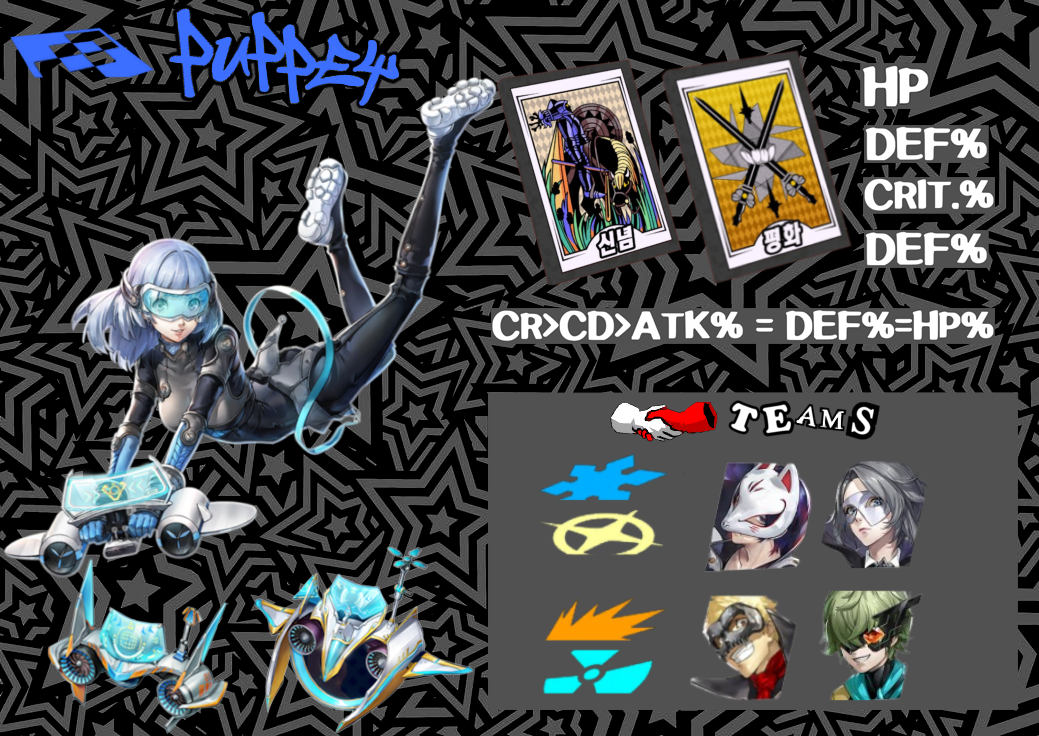
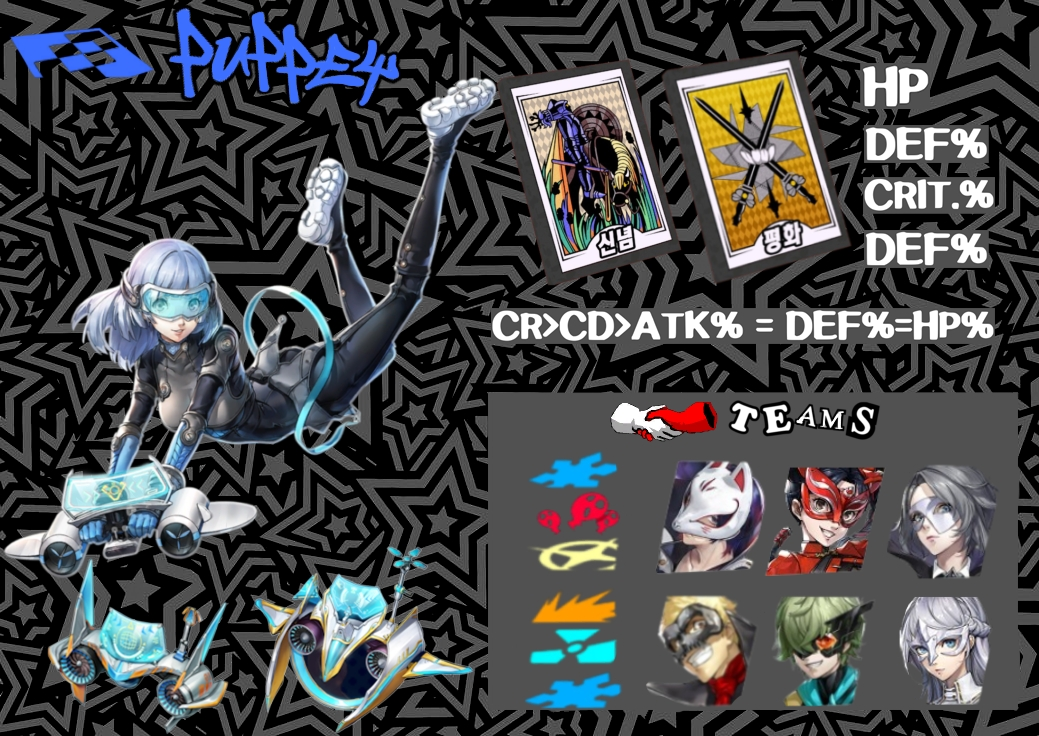
Add files via upload

diff --git a/characters/okyann.html b/characters/okyann.html
@@ -34,33 +34,43 @@
         width: 10%;
         height: 15%;
 
-        background-color: rgba(63, 17, 247,0); /* Semi-transparent for visibility */
+        background-color: rgba(63, 17, 247, 0); /* Semi-transparent for visibility */
         cursor: pointer;
     }
 
     #team1Perso1 {
     top: 62.22%;
-    left: 64.63%;
+    left: 60.63%;
     }   
 
     #team1Perso2 {
         top: 62.22%;
-        left: 78.07%;
+        left: 75.07%;
+    }
+
+    #team1Perso3 {
+        top: 62.22%;
+        left: 86.62%;
     }
 
     #team2Perso1 {
-        top: 79.88%;
-        left: 65.63%;
+        top: 78.88%;
+        left: 60.63%;
 }
 
     #team2Perso2 {
         top: 78.88%;
-        left: 78.07%;
+        left: 75.07%;
+    }
+
+    #team2Perso3 {
+        top: 78.88%;
+        left: 86.62%;
     }
 
 #Carte1 {
-top: 20.38%;
-left: 42.36%;
+top: 16.38%;
+left: 45.36%;
 width: 18.28%;
 height: 16.30%;
 overflow: hidden;
@@ -68,8 +78,8 @@ transform: rotate(75deg);
 }
 
 #Carte2 {
-top: 20.38%;
-left: 62.55%;
+top: 14.38%;
+left: 63.55%;
 width: 18.28%;
 height: 16.30%;
 overflow: hidden;
@@ -89,6 +99,11 @@ document.querySelector('#team1Perso2').addEventListener('click', function(event)
     alert('Zone 2 cliquée!');
 });
 
+document.querySelector('#team1Perso3').addEventListener('click', function(event) {
+    event.preventDefault();
+    alert('Zone 3 cliquée!');
+});
+
 document.querySelector('#team2Perso1').addEventListener('click', function(event) {
     event.preventDefault();
     alert('Zone 1 cliquée!');
@@ -97,6 +112,11 @@ document.querySelector('#team2Perso1').addEventListener('click', function(event)
 document.querySelector('#team2Perso2').addEventListener('click', function(event) {
     event.preventDefault();
     alert('Zone 2 cliquée!');
+});
+
+document.querySelector('#team2Perso3').addEventListener('click', function(event) {
+    event.preventDefault();
+    alert('Zone 3 cliquée!');
 });
 
 document.querySelector('#Carte1').addEventListener('click', function(event) {
@@ -114,9 +134,11 @@ document.querySelector('#Carte2').addEventListener('click', function(event) {
     <div class="image-container">
         <img src="../img/characters/okyann.png">
         <a href="./queen.html" class="clickable-area" id="team1Perso1"></a>
-        <a href="./vino.html" class="clickable-area" id="team1Perso2"></a>
-        <a href="./queen.html" class="clickable-area" id="team2Perso1"></a>
-        <a href="./joker.html" class="clickable-area" id="team2Perso2"></a>
+        <a href="./marian.html" class="clickable-area" id="team1Perso2"></a>
+        <a href="./vino.html" class="clickable-area" id="team1Perso3"></a>
+        <a href="./ryuji.html" class="clickable-area" id="team2Perso1"></a>
+        <a href="./queen.html" class="clickable-area" id="team2Perso2"></a>
+        <a href="./leon.html" class="clickable-area" id="team2Perso3"></a>
         <a href="../cards/speciales/Blue_Priestess_Fox_Bui_Okyann.html" class="clickable-area" id="Carte1"></a>
         <a href="../cards/Carte_Riddle__Moko__Leon__Okyann.html" class="clickable-area" id="Carte2"></a>
     

diff --git a/characters/puppet.html b/characters/puppet.html
@@ -40,27 +40,37 @@
 
     #team1Perso1 {
     top: 62.22%;
-    left: 66.63%;
+    left: 60.63%;
     }   
 
     #team1Perso2 {
         top: 62.22%;
-        left: 78.07%;
+        left: 75.07%;
+    }
+
+    #team1Perso3 {
+        top: 62.22%;
+        left: 86.62%;
     }
 
     #team2Perso1 {
-        top: 79.88%;
-        left: 65.63%;
+        top: 78.88%;
+        left: 60.63%;
 }
 
     #team2Perso2 {
         top: 78.88%;
-        left: 78.07%;
+        left: 75.07%;
+    }
+
+    #team2Perso3 {
+        top: 78.88%;
+        left: 86.62%;
     }
 
 #Carte1 {
-top: 15.38%;
-left: 48.36%;
+top: 16.38%;
+left: 45.36%;
 width: 18.28%;
 height: 16.30%;
 overflow: hidden;
@@ -68,7 +78,7 @@ transform: rotate(75deg);
 }
 
 #Carte2 {
-top: 15.38%;
+top: 14.38%;
 left: 63.55%;
 width: 18.28%;
 height: 16.30%;
@@ -89,6 +99,11 @@ document.querySelector('#team1Perso2').addEventListener('click', function(event)
     alert('Zone 2 cliquée!');
 });
 
+document.querySelector('#team1Perso3').addEventListener('click', function(event) {
+    event.preventDefault();
+    alert('Zone 3 cliquée!');
+});
+
 document.querySelector('#team2Perso1').addEventListener('click', function(event) {
     event.preventDefault();
     alert('Zone 1 cliquée!');
@@ -97,6 +112,11 @@ document.querySelector('#team2Perso1').addEventListener('click', function(event)
 document.querySelector('#team2Perso2').addEventListener('click', function(event) {
     event.preventDefault();
     alert('Zone 2 cliquée!');
+});
+
+document.querySelector('#team2Perso3').addEventListener('click', function(event) {
+    event.preventDefault();
+    alert('Zone 3 cliquée!');
 });
 
 document.querySelector('#Carte1').addEventListener('click', function(event) {
@@ -114,9 +134,11 @@ document.querySelector('#Carte2').addEventListener('click', function(event) {
     <div class="image-container">
         <img src="../img/characters/puppet.png">
         <a href="./yusuke.html" class="clickable-area" id="team1Perso1"></a>
-        <a href="./yuki.html" class="clickable-area" id="team1Perso2"></a>
-        <a href="./ryuji.html" class="clickable-area" id="team2Perso1"></a>
+        <a href="./rin.html" class="clickable-area" id="team1Perso2"></a>
+        <a href="./yuki.html" class="clickable-area" id="team1Perso3"></a>
+        <a href="./yusuke.html" class="clickable-area" id="team2Perso1"></a>
         <a href="./leon.html" class="clickable-area" id="team2Perso2"></a>
+        <a href="./mont.html" class="clickable-area" id="team2Perso3"></a>
         <a href="../cards/speciales/Horse_Purple_Yuki_Puppet.html" class="clickable-area" id="Carte1"></a>
         <a href="../cards/Carte_Yuki__Puppet.html" class="clickable-area" id="Carte2"></a>
     
